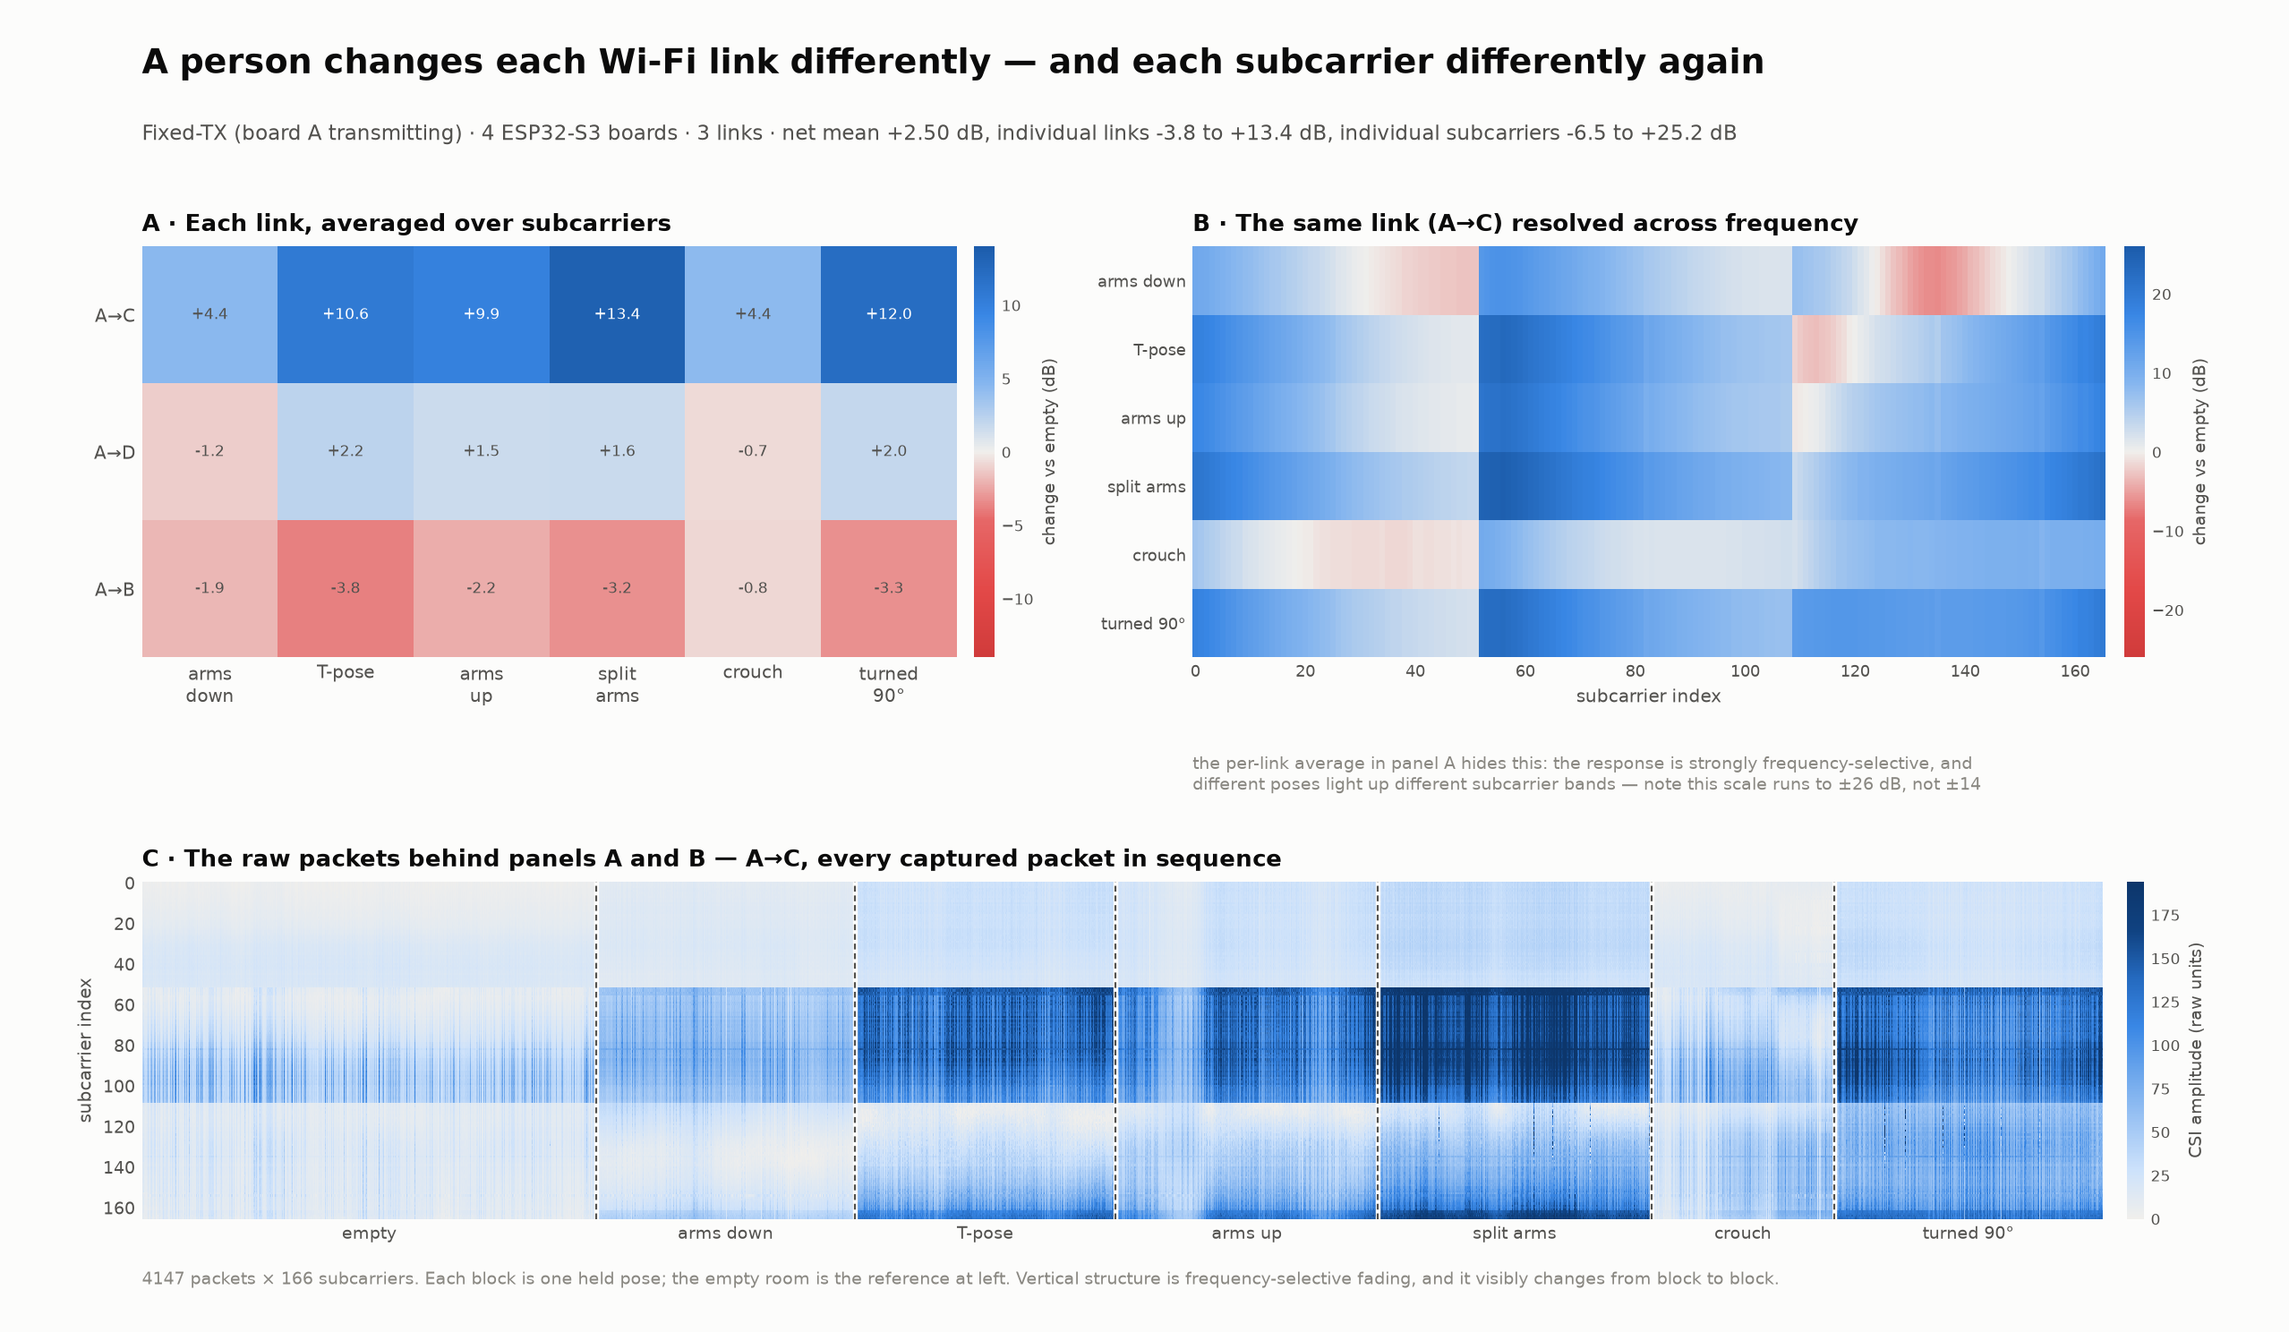
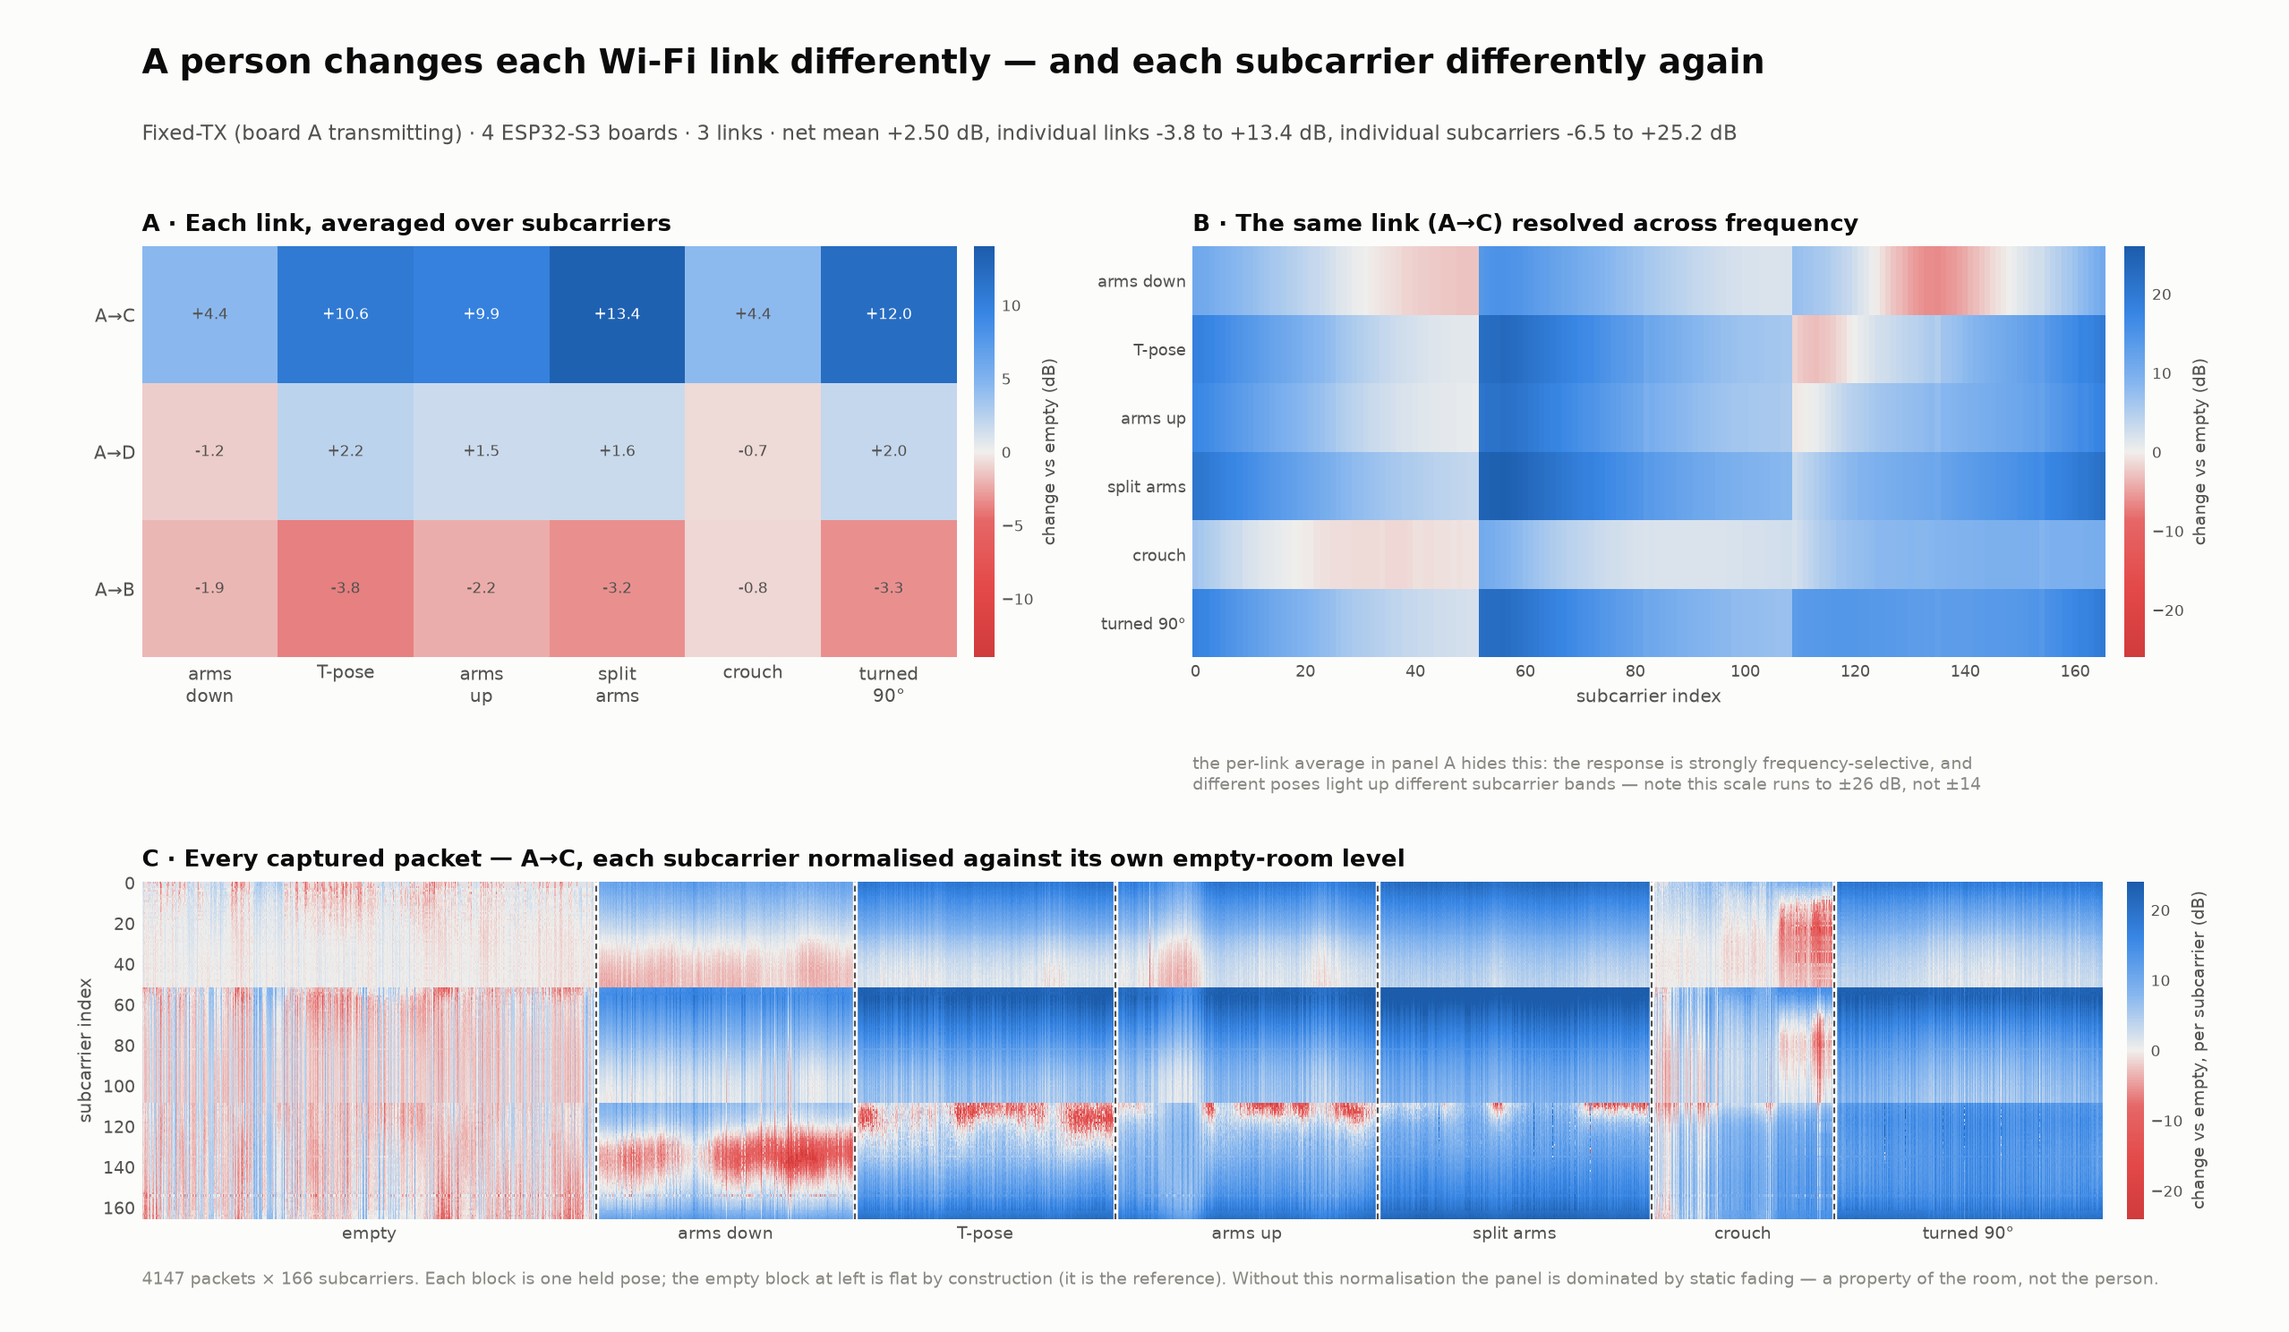
Add multi-angle figure; normalise the raw panel per subcarrier
plot_multiview.py shows what round-robin actually buys: the array geometry
beside all 12 links, then three links of differing orientation resolved across
frequency. Because the array is not collinear the angles differ sharply --
A-B crosses the room at 0 degrees while C-D crosses at 80 -- and the same pose
resolves into a different subcarrier pattern on each. A fixed transmitter
cannot produce that bottom row at all, which is the point of the figure. The
three panels deliberately share a colour scale, since the fact that a pose
dominating one angle barely registers on another is the finding; each panel
also states its own range so the quieter links stay readable.

plot_pose_detail.py panel C now normalises each subcarrier against its own
empty-room level instead of plotting raw amplitude. Raw amplitude is dominated
by static frequency-selective fading -- strong banding that is a property of
the room rather than of the person -- which buried the per-pose structure the
panel exists to show. After normalisation each pose block is visibly distinct
and the empty block is flat by construction.

Presentation fixes found by looking at the renders: row markers drawn over the
heatmap were invisible when the row's own colour matched them and, moved to the
margin, covered the labels they identified, so the tick label itself is now
coloured; per-panel range text collided with panel titles; the footer caption
ran off the canvas.
[…]

diff --git a/esp-csi/examples/get-started/tools/plot_multiview.py b/esp-csi/examples/get-started/tools/plot_multiview.py
@@ -1,0 +1,220 @@
+#!/usr/bin/env python3
+"""What round-robin buys: the same person viewed along several link angles at once.
+
+A fixed transmitter only ever probes the room along links radiating from one
+board. Round-robin gives every ordered pair, so the subject is crossed from
+several directions in the same capture -- and because the array is not
+collinear, those directions differ a lot: A-B runs horizontally across the
+room while C-D runs almost perpendicular to it.
+
+This figure puts the array geometry next to the per-link response, then resolves
+three links of differing angle across frequency. A fixed-TX capture cannot
+produce the bottom row at all, which is the point.
+
+Colours for the highlighted links are the reference palette's first three
+categorical slots, documented there as validated all-pairs (the skill caps
+all-pairs forms at three regardless).
+
+  python3 plot_multiview.py --prefix ps --out multiview_rr.png
+"""
+
+import argparse
+
+import numpy as np
+import matplotlib
+matplotlib.use('Agg')
+import matplotlib.pyplot as plt
+from matplotlib.colors import LinearSegmentedColormap
+
+LABEL = {'ab:d4': 'C', '2d:3c': 'A', '2d:a8': 'B', '6b:5c': 'D'}
+# measured by hand, reconstructed to 1.6 mm RMS -- see NOTES.md
+COORDS = {'A': (0.000, 0.000), 'B': (4.698, 0.000),
+          'C': (1.986, 1.164), 'D': (1.307, -2.867)}
+POSES = ['neutral', 'tpose', 'up', 'split', 'crouch', 'turned']
+SHORT = ['arms down', 'T-pose', 'arms up', 'split arms', 'crouch', 'turned 90°']
+
+SURFACE = '#fcfcfb'
+INK = '#0b0b0b'
+INK_2 = '#52514e'
+MUTED = '#898781'
+GRID = '#e1e0d9'
+CAT = ['#2a78d6', '#eb6834', '#1baf7a']          # palette slots 1-3
+DIVERGING = LinearSegmentedColormap.from_list('loss_gain', [
+    '#d03b3b', '#e34948', '#e66767', '#f0efec', '#86b6ef', '#3987e5', '#1c5cab'])
+
+
+def links(d):
+    return sorted({k.rsplit('|', 1)[0] for k in d.files if k.endswith('|t')})
+
+
+def ends(lk):
+    tx, rx = lk.split('|')
+    return LABEL.get(tx[-5:], '?'), LABEL.get(rx[-5:], '?')
+
+
+def angle_of(a, b):
+    """Link orientation in degrees, folded to 0-180 (a link has no direction)."""
+    (x1, y1), (x2, y2) = COORDS[a], COORDS[b]
+    return np.degrees(np.arctan2(y2 - y1, x2 - x1)) % 180
+
+
+def main():
+    ap = argparse.ArgumentParser(description=__doc__)
+    ap.add_argument('--prefix', default='ps')
+    ap.add_argument('--out', default='multiview.png')
+    ap.add_argument('--title', default='Round-robin, session 1')
+    args = ap.parse_args()
+
+    E = np.load(f'{args.prefix}_empty.npz')
+    P = {p: np.load(f'{args.prefix}_{p}.npz') for p in POSES}
+    lks = links(E)
+
+    rows, names, lk_keep = [], [], []
+    for lk in lks:
+        base = E[f'{lk}|a'].astype(float).mean()
+        a, b = ends(lk)
+        rows.append([20 * np.log10(max(P[p][f'{lk}|a'].astype(float).mean(), 1e-9) / max(base, 1e-9))
+                     for p in POSES])
+        names.append(f'{a}→{b}')
+        lk_keep.append(lk)
+    M = np.array(rows)
+    order = np.argsort(np.nanmean(M, axis=1))[::-1]
+    M, names, lk_keep = M[order], [names[i] for i in order], [lk_keep[i] for i in order]
+
+    # three links of differing orientation. A-C is the most responsive, C-D is
+    # near-perpendicular to A-B, and A-B is the horizontal reference.
+    want = [('A', 'C'), ('C', 'D'), ('A', 'B')]
+    chosen = []
+    for a, b in want:
+        for i, lk in enumerate(lk_keep):
+            if set(ends(lk)) == {a, b}:
+                chosen.append((i, lk, f'{a}↔{b}', angle_of(a, b)))
+                break
+    if len(chosen) < 2:
+        print('this figure needs several link directions; a fixed-TX capture '
+              'only has links from one board. Use --prefix of a round-robin run.')
+        return
+
+    fig = plt.figure(figsize=(16.2, 10.2), facecolor=SURFACE)
+    gs = fig.add_gridspec(2, 3, height_ratios=[1, 0.95], width_ratios=[0.82, 1, 1],
+                          hspace=0.34, wspace=0.26,
+                          left=0.055, right=0.945, top=0.815, bottom=0.125)
+
+    # ---------- geometry ----------
+    axg = fig.add_subplot(gs[0, 0], facecolor=SURFACE)
+    for i, a in enumerate('ABCD'):
+        for b in list('ABCD')[i + 1:]:
+            axg.plot(*zip(COORDS[a], COORDS[b]), color=GRID, lw=1.4, zorder=1)
+    for (idx, lk, lab, ang), col in zip(chosen, CAT):
+        a, b = lab.split('↔')
+        axg.plot(*zip(COORDS[a], COORDS[b]), color=col, lw=2.6, zorder=2)
+        mx = (COORDS[a][0] + COORDS[b][0]) / 2
+        my = (COORDS[a][1] + COORDS[b][1]) / 2
+        axg.text(mx, my, f' {ang:.0f}°', color=col, fontsize=10.5,
+                 fontweight='bold', ha='center', va='center',
+                 bbox=dict(fc=SURFACE, ec='none', pad=1.2), zorder=4)
+    cx = np.mean([c[0] for c in COORDS.values()])
+    cy = np.mean([c[1] for c in COORDS.values()])
+    axg.plot(cx, cy, marker='*', ms=17, color=MUTED, zorder=3)
+    axg.text(cx + 0.30, cy - 0.10, 'subject', color=MUTED, fontsize=9.5,
+             ha='left', va='top')
+    for k, (x, y) in COORDS.items():
+        axg.plot(x, y, 'o', ms=13, color=INK, zorder=5)
+        axg.text(x, y + 0.34, k, color=INK, fontsize=12, fontweight='bold',
+                 ha='center', va='bottom', zorder=5)
+    axg.set_aspect('equal')
+    axg.set_xlabel('metres', color=INK_2, fontsize=9.5)
+    axg.set_title('The array', color=INK, fontsize=12, pad=8, loc='left', fontweight='bold')
+    axg.tick_params(colors=INK_2, labelsize=8.5, length=0)
+    for s in axg.spines.values():
+        s.set_visible(False)
+    axg.grid(color=GRID, lw=0.8)
+    axg.set_axisbelow(True)
+    axg.margins(0.16)
+
+    # ---------- link x pose ----------
+    axh = fig.add_subplot(gs[0, 1:], facecolor=SURFACE)
+    lim = max(float(np.ceil(np.nanmax(np.abs(M)) / 2) * 2), 1.0)
+    im = axh.imshow(M, cmap=DIVERGING, vmin=-lim, vmax=lim, aspect='auto')
+    axh.set_xticks(range(len(POSES)), SHORT, color=INK_2, fontsize=9.5)
+    axh.set_yticks(range(len(names)), names, color=INK_2, fontsize=9.5)
+    for i in range(M.shape[0]):
+        for j in range(M.shape[1]):
+            axh.text(j, i, f'{M[i, j]:+.1f}', ha='center', va='center', fontsize=8,
+                     color='#ffffff' if abs(M[i, j]) > lim * 0.55 else INK_2)
+    # mark the selected links by colouring their tick label. An outline over the
+    # cells is invisible when the row's own colour matches it, and a bar in the
+    # margin covers the label it is meant to identify.
+    sel = {idx: col for (idx, _lk, _lab, _ang), col in zip(chosen, CAT)}
+    for i, t in enumerate(axh.get_yticklabels()):
+        if i in sel:
+            t.set_color(sel[i])
+            t.set_fontweight('bold')
+            t.set_fontsize(11)
+    axh.set_title(f'All {len(names)} links · a fixed transmitter would give only 3 of these rows',
+                  color=INK, fontsize=12, pad=8, loc='left', fontweight='bold')
+    for s in axh.spines.values():
+        s.set_visible(False)
+    axh.tick_params(length=0)
+    cb = fig.colorbar(im, ax=axh, fraction=0.028, pad=0.015)
+    cb.set_label('change vs empty (dB)', color=INK_2, fontsize=9)
+    cb.ax.tick_params(colors=INK_2, length=0, labelsize=8)
+    cb.outline.set_visible(False)
+
+    # ---------- per-angle subcarrier structure ----------
+    panels = []
+    for idx, lk, lab, ang in chosen:
+        base_sc = E[f'{lk}|a'].astype(float).mean(axis=0)
+        valid = base_sc > 1.0
+        S = np.array([20 * np.log10(np.maximum(P[p][f'{lk}|a'].astype(float).mean(axis=0), 1e-9)
+                                    / np.maximum(base_sc, 1e-9)) for p in POSES])[:, valid]
+        panels.append((S, lab, ang))
+    limS = max(float(np.ceil(max(np.nanmax(np.abs(S)) for S, _, _ in panels) / 2) * 2), 1.0)
+
+    for k, ((S, lab, ang), col) in enumerate(zip(panels, CAT)):
+        axs = fig.add_subplot(gs[1, k], facecolor=SURFACE)
+        im2 = axs.imshow(S, cmap=DIVERGING, vmin=-limS, vmax=limS,
+                         aspect='auto', interpolation='nearest')
+        axs.set_yticks(range(len(POSES)), SHORT if k == 0 else [''] * len(POSES),
+                       color=INK_2, fontsize=9.5)
+        axs.set_xlabel('subcarrier index', color=INK_2, fontsize=9.5)
+        axs.set_title(f'{lab}   {ang:.0f}° across the room', color=col,
+                      fontsize=12, pad=28, loc='left', fontweight='bold')
+        axs.text(0.0, 1.018, f'spans {np.nanmin(S):+.1f} to {np.nanmax(S):+.1f} dB',
+                 transform=axs.transAxes, fontsize=9, color=MUTED, va='bottom')
+        axs.tick_params(colors=INK_2, length=0, labelsize=8.5)
+        for s in axs.spines.values():
+            s.set_visible(False)
+        for sp in ('bottom', 'left', 'top', 'right'):
+            axs.spines[sp].set_visible(False)
+        # a coloured rule ties the panel back to its link in the geometry
+        axs.add_patch(plt.Rectangle((0, -0.6), S.shape[1], 0.16, color=col,
+                                    clip_on=False, zorder=6))
+        if k == len(panels) - 1:
+            cb2 = fig.colorbar(im2, ax=axs, fraction=0.03, pad=0.015)
+            cb2.set_label('change vs empty (dB)', color=INK_2, fontsize=9)
+            cb2.ax.tick_params(colors=INK_2, length=0, labelsize=8)
+            cb2.outline.set_visible(False)
+
+    fig.text(0.055, 0.945,
+             'Round-robin sees the same person from several angles at once',
+             fontsize=17.5, color=INK, fontweight='bold')
+    fig.text(0.055, 0.897,
+             f'{args.title} · the three highlighted links cross the room at '
+             f'{chosen[0][3]:.0f}°, {chosen[1][3]:.0f}° and {chosen[2][3]:.0f}° — '
+             'each resolves the same pose into a different subcarrier pattern',
+             fontsize=10.5, color=INK_2)
+    fig.text(0.055, 0.020,
+             'Bottom row: same six poses, same colour scale, three viewing angles. The shared scale is deliberate — a pose that\n'
+             'dominates one angle can barely register on another, which is the information a single transmitter cannot reach.\n'
+             'Each panel also states its own range, since the shared scale flattens the quieter links.',
+             fontsize=9.5, color=MUTED, linespacing=1.5)
+
+    fig.savefig(args.out, dpi=155, facecolor=SURFACE)
+    print(f'wrote {args.out}')
+    for _, lk, lab, ang in chosen:
+        print(f'  {lab} at {ang:.1f}°')
+
+
+if __name__ == '__main__':
+    main()

diff --git a/esp-csi/examples/get-started/tools/plot_pose_detail.py b/esp-csi/examples/get-started/tools/plot_pose_detail.py
@@ -87,14 +87,20 @@ def main():
     valid = base_sc > 1.0          # guard-band subcarriers are ~0 and would divide to noise
     S = S[:, valid]
 
-    # ---- panel C data: raw packets, empty then each pose ------------------
+    # ---- panel C data: per-packet, normalised per subcarrier --------------
+    # Each subcarrier is divided by its OWN empty-room level before plotting.
+    # Raw amplitude is dominated by static frequency-selective fading -- strong
+    # horizontal banding that is a property of the room, not of the person --
+    # and that banding swamps the change we actually want to see. Normalising
+    # per subcarrier removes it and puts every subcarrier on the same dB scale.
+    ref_sc = E[f'{key_lk}|a'].astype(float)[:, valid].mean(axis=0)
     segs, bounds, seg_lab = [], [], []
     for tag, d in [('empty', E)] + [(SHORT[i], P[p]) for i, p in enumerate(POSES)]:
         a = d[f'{key_lk}|a'].astype(float)[:, valid]
-        segs.append(a)
+        segs.append(20 * np.log10(np.maximum(a, 1e-9) / np.maximum(ref_sc, 1e-9)[None, :]))
         bounds.append(sum(len(s) for s in segs))
         seg_lab.append(tag)
-    RAW = np.vstack(segs).T          # [subcarrier x packet]
+    RAW = np.vstack(segs).T          # [subcarrier x packet], dB vs own empty level
 
     def sym_limit(arr, floor=1.0):
         """Symmetric colour limit about zero. Guarded: an all-NaN or all-zero
@@ -157,8 +163,9 @@ def main():
 
     # ================= panel C =================
     ax3 = fig.add_subplot(gs[1, :], facecolor=SURFACE)
-    im3 = ax3.imshow(RAW, cmap=SEQ, aspect='auto', interpolation='nearest',
-                     vmin=0, vmax=np.percentile(RAW, 99))
+    limR = max(float(np.ceil(np.nanpercentile(np.abs(RAW), 99) / 2) * 2), 1.0)
+    im3 = ax3.imshow(RAW, cmap=DIVERGING, aspect='auto', interpolation='nearest',
+                     vmin=-limR, vmax=limR)
     for b in bounds[:-1]:
         ax3.axvline(b, color=SURFACE, lw=2.5)
         ax3.axvline(b, color=INK_2, lw=1.0, ls=(0, (3, 2)))
@@ -167,20 +174,20 @@ def main():
     mid = [(([0] + bounds)[i] + bounds[i]) / 2 for i in range(len(bounds))]
     ax3.set_xticks(mid, seg_lab, color=INK_2, fontsize=9.5)
     ax3.set_ylabel('subcarrier index', color=INK_2, fontsize=9.5)
-    ax3.set_title(f'C · The raw packets behind panels A and B — {key_name}, '
-                  'every captured packet in sequence',
+    ax3.set_title(f'C · Every captured packet — {key_name}, each subcarrier '
+                  'normalised against its own empty-room level',
                   color=INK, fontsize=12, pad=8, loc='left', fontweight='bold')
     ax3.tick_params(colors=INK_2, length=0, labelsize=9)
     for s in ax3.spines.values():
         s.set_visible(False)
     cb3 = fig.colorbar(im3, ax=ax3, fraction=0.018, pad=0.012)
-    cb3.set_label('CSI amplitude (raw units)', color=INK_2, fontsize=9)
+    cb3.set_label('change vs empty, per subcarrier (dB)', color=INK_2, fontsize=9)
     cb3.ax.tick_params(colors=INK_2, length=0, labelsize=8)
     cb3.outline.set_visible(False)
-    ax3.text(0.0, -0.155, f'{RAW.shape[1]} packets × {RAW.shape[0]} subcarriers. '
-                          'Each block is one held pose; the empty room is the reference at left. '
-                          'Vertical structure is frequency-selective fading, and it visibly '
-                          'changes from block to block.',
+    ax3.text(0.0, -0.155, f'{RAW.shape[1]} packets × {RAW.shape[0]} subcarriers. Each block is one '
+                          'held pose; the empty block at left is flat by construction (it is the reference). '
+                          'Without this normalisation the panel is dominated by static fading — a property of '
+                          'the room, not the person.',
              transform=ax3.transAxes, fontsize=9, color=MUTED, va='top')
 
     net = np.nanmean(M)
